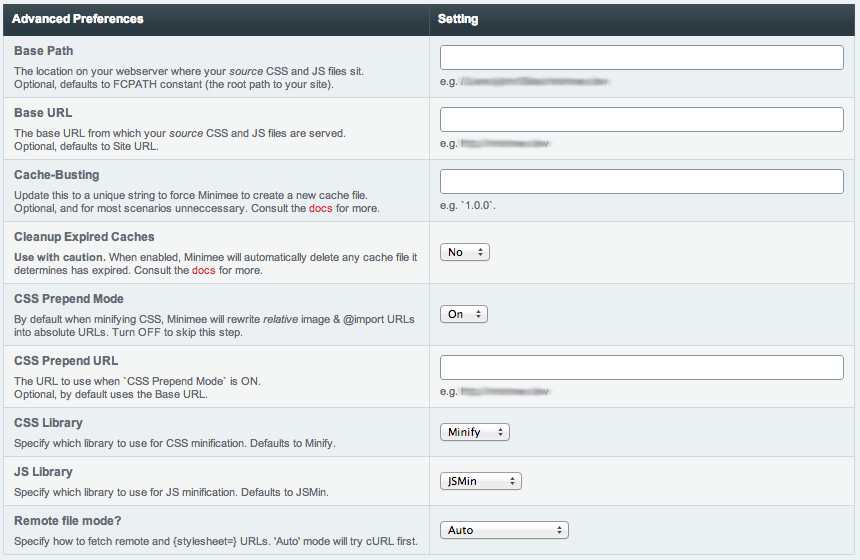
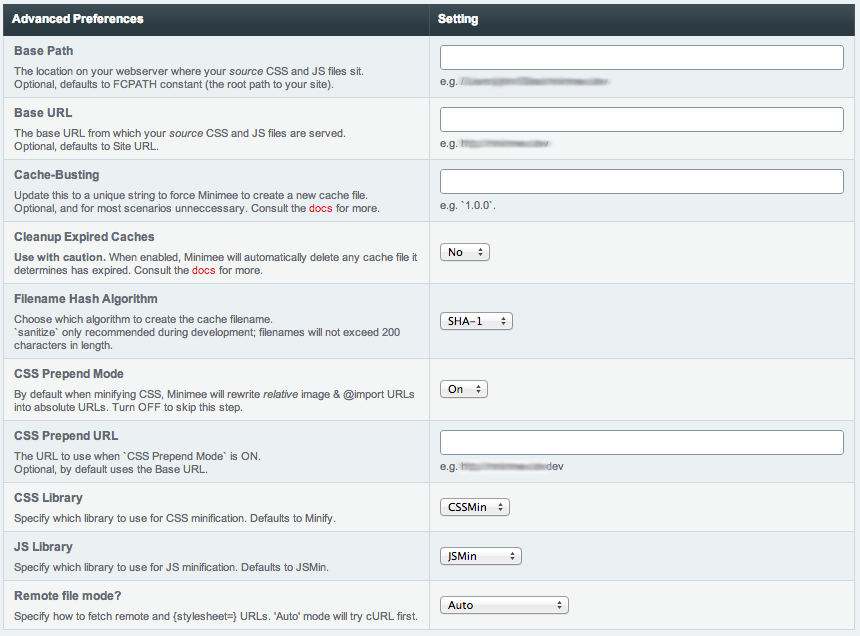
A few content updates.

diff --git a/index.html b/index.html
@@ -80,7 +80,7 @@
 							<a class="btn" rel="event-tar" href="https://github.com/johndwells/Minimee/tarball/master">Download<br /><strong>TAR Ball</strong></a>
 							<a class="btn btn-info" rel="event-fork" href="https://github.com/johndwells/Minimee">Fork On<br /><strong>GitHub</strong></a>
 						</div>
-						<p style="font-size: .95em">&nbsp;<i class="icon-bookmark icon-white"></i> Version 2.x, <small>Releasing October 2012</small></p>
+						<p style="font-size: .95em">&nbsp;<i class="icon-bookmark icon-white"></i> Releasing October 2012 | <a href="https://github.com/johndwells/Minimee" title="Minimee on Github">Change log</a></p>
 					</div>
 				</div>
 			</div>
@@ -233,16 +233,20 @@
 
 				<h3>Step 3: Filename Case Sensitivity</h3>
 
-				<p>There is a file who's name has <strong><em>changed case</em></strong>, which may go unrecognised with versioning systems such as SVN/Git; while a check is in place to account for this, it is recommended that you double-check the filename's casing has been properly maintained (subsequent versions of Minimee may drop this check to save time). The file is:</p>
+				<p>Two files' names have <strong><em>changed case</em></strong>, which may go unrecognised with versioning systems such as SVN/Git, and may cause trouble on case-sensitive filesystems. While a check is in place to account for this, it is recommended that you double-check that the names have been properly maintained, as subsequent versions of Minimee may drop this check to save time. The files are:</p>
 
 <pre class="brush:plain">// correct:
 /system/expressionengine/third_party/minimee/libraries/JSMin.php
-
 // incorrect:
 /system/expressionengine/third_party/minimee/libraries/jsmin.php
-</pre>
 
-				<p>Once you have upgraded Minimee on your server, either through deployment or FTP, you should make sure that this file has its proper case as above.</p>
+// and
+
+// correct:
+/system/expressionengine/third_party/minimee/libraries/CSSmin.php
+// incorrect:
+/system/expressionengine/third_party/minimee/libraries/CSSMin.php
+</pre>
 
 				<h3>Step 4: Cache folder cleanup</h3>
 
@@ -272,7 +276,7 @@
 				<ul class="thumbnails">
 					<li class="span11">
 						<div class="thumbnail">
-							<img src="img/config-basic.png" alt="Screenshot of Basic Preferences">
+							<a href="img/config-basic.png" title="View Large"><img src="img/config-basic.png" alt="Screenshot of Basic Preferences"></a>
 
 							<h3>Basic Preferences</h3>
 							<p>The first panel allows for basic configuration of Minimee, including whether to combine and/or minify each asset type.</p>
@@ -282,7 +286,7 @@
 					</li>
 					<li class="span11">
 						<div class="thumbnail">
-							<img src="img/config-advanced.png" alt="Screenshot of Advanced Preferences">
+							<a href="img/config-advanced.png" title="View Large"><img src="img/config-advanced.png" alt="Screenshot of Advanced Preferences"></a>
 
 							<h3>Advanced Preferences</h3>
 							<p>For 90% of all setups, you will not need to edit the Advanced Preferences. If you do and encounter problems, these should be the first things you reset or change.</p>
@@ -302,7 +306,9 @@
 					<li><a href="https://gist.github.com/1329538">This little-known gist</a> from <a href="https://twitter.com/airways">@airways</a></li>
 				</ul>
 
-				<p>To configure Minimee via EE's <code>$config</code> array, the following values are available:</p>
+				<br />
+
+				<p class="alert alert-notice">Double-click anywhere in the code block to be able to copy the raw source.</p>
 
 				<pre class="pre-scrollable brush:php">$config['minimee'] = array(
 
@@ -438,6 +444,15 @@
     'css_prepend_url'   =&gt; '/path/to/site.com',
 
     /**
+     * Specify what algorithm to use when creating cache filenames.
+     * 'serialize' enforces a 200 character limit, and is
+     * only recommended during development.
+     * Values: 'md5', 'sha1', or 'serialize'/'serialise'
+     * Default: sha1
+     */
+    'filename_hash'   =&gt; 'sha1',
+
+    /**
      * Specify which minification library to use for your JS.
      * Please note that JSMinPlus is VERY memory-intensive. Not recommended
      * unless you really know what you're doing. Seriously.
@@ -455,6 +470,7 @@
     'remote_mode'       =&gt; 'auto'
 );
 </pre>
+
 			</div> <!-- /#configuration -->
 
 
@@ -467,7 +483,7 @@
 					<h1>Tags &amp; Parameters</h1>
 				</div>
 
-				<p class="alert alert-info">In addition to any <a href="#configuration">Configuration</a> values mentioned above, the following parameters can also be passed at runtime:</p>
+				<p class="alert alert-info"><strong>Heads up!</strong> All <a href="#configuration">Configuration</a> values mentioned above can also be specified as tag parameters. Refer to the EE $config code sample for key/value combinations.</p>
 
 				<table class="table table-bordered table-striped">
 					<caption><h3>exp:minimee:css <small>and</small> exp:minimee:js</h3></caption>
@@ -560,6 +576,8 @@
 				</table>
 
 				<br />
+				<hr />
+				<br />
 
 				<table class="table table-bordered table-striped">
 					<caption><h3>exp:minimee:display</h3></caption>
@@ -642,6 +660,8 @@
 					</tbody>
 				</table>
 
+				<br />
+				<hr />
 				<br />
 
 				<table class="table table-bordered table-striped">
@@ -798,7 +818,7 @@
 
 				<p>Since Minimee 1.x there has been the ability to "queue" assets and then display the final cache later in your EE template.  It's a simple two-step process:</p>
 
-				<h5>Step <span class="badge">1</span>: Add <code>queue=</code> parameter to your <code>exp:minimee:css</code> or <code>exp:minimee:js</code> opening tag:</h5>
+				<h5><br />Step <span class="badge">1</span>: Add <code>queue=</code> parameter to your <code>exp:minimee:css</code> or <code>exp:minimee:js</code> opening tag:</h5>
 
 				<pre class="brush:ee">{exp:minimee:css queue="head_css"}
     &lt;link rel="stylesheet" href="css/reset.css"&gt;
@@ -818,7 +838,7 @@
 {/exp:minimee:css}
 </pre>
 
-				<h5>Step <span class="badge">2</span>: Once all assets have been queue'd, you can finally display your tag output with the <code>exp:minimee:display</code> tag; use <code>css=</code> or <code>js=</code> as your tag parameter depending on the type of asset, and specify the name of the queue:</h5>
+				<h5><br />Step <span class="badge">2</span>: Once all assets have been queue'd, you can finally display your tag output with the <code>exp:minimee:display</code> tag; use <code>css=</code> or <code>js=</code> as your tag parameter depending on the type of asset, and specify the name of the queue:</h5>
 
 				<pre class="brush:ee">{exp:minimee:display css="head_css"}
 
@@ -864,7 +884,7 @@
 
 				<p>There are now multiple approaches to "embedding" the contents of your cache inline with the rest of your HTML content. Let's cover 2 basic options:</p>
 
-				<h5>Option 1: Using a Queue + Display method</h5>
+				<h5><br />Option 1: Using a Queue + Display method</h5>
 
 				<p>Begin with Step <span class="badge">1</span> above under <strong>Queueing + Display</strong>.  This will queue one or more assets for display.</p>
 
@@ -885,7 +905,7 @@
 &lt;/style&gt;
 </pre>
 
-				<h5>Option 2: Directly changing display mode</h5>
+				<h5><br />Option 2: Directly changing display mode</h5>
 
 				<p>The return mode of <code>exp:minimee:js</code> and <code>exp:minimee:css</code> tags can now be altered in a single call, by specifying the <code>display</code> value at the same time. When doing so, it is recommended to also provide the appropriate <code>attribute:name="value"</code> parameters as well, so that the contents are automatically wrapped in tags:</p>
 
@@ -1000,12 +1020,12 @@
 					<div class="accordion-group">
 						<div class="accordion-heading">
 							<a class="accordion-toggle" data-toggle="collapse" data-parent="#faqAccordion" href="#faqThree">
-								<span class="badge badge-warning">Q:</span>&nbsp;&nbsp;&nbsp;What determins a cache's filename?
+								<span class="badge badge-warning">Q:</span>&nbsp;&nbsp;&nbsp;What determines a cache's filename?
 							</a>
 						</div>
 						<div id="faqThree" class="accordion-body collapse">
 							<div class="accordion-inner">
-								<p>A cache filename begins with an md5() hash created from the list of assets being cached together. Minimee then appends the last modified timestamp, and if an optional cachebusting string has been specified, comes next. The result format is:</p>
+								<p>A cache filename begins with a configurable hash option (see <a href="#configuration" title="Configuration">Configuration</a> section above), created from the list of assets being cached together. Minimee then appends the last modified timestamp, and if an optional cachebusting string has been specified, comes next. The result format is:</p>
 
 								<pre class="brush:plain">// md5.timestamp.[cachebust].ext
 03b5614606d3e8d2f28d0b07f802fbbb.1332460675.v2.5.css

diff --git a/less/variables.less b/less/variables.less
@@ -141,7 +141,7 @@
 
 // Hr border color
 // -------------------------
-@hrBorder:                @grayLighter;
+@hrBorder:                @grayDark;
 
 
 // Horizontal forms & lists

diff --git a/css/bootstrap.css b/css/bootstrap.css
@@ -645,7 +645,7 @@ dd {
 hr {
   margin: 20px 0;
   border: 0;
-  border-top: 1px solid #aaaaaa;
+  border-top: 1px solid #333333;
 }
 abbr[title] {
   cursor: help;
